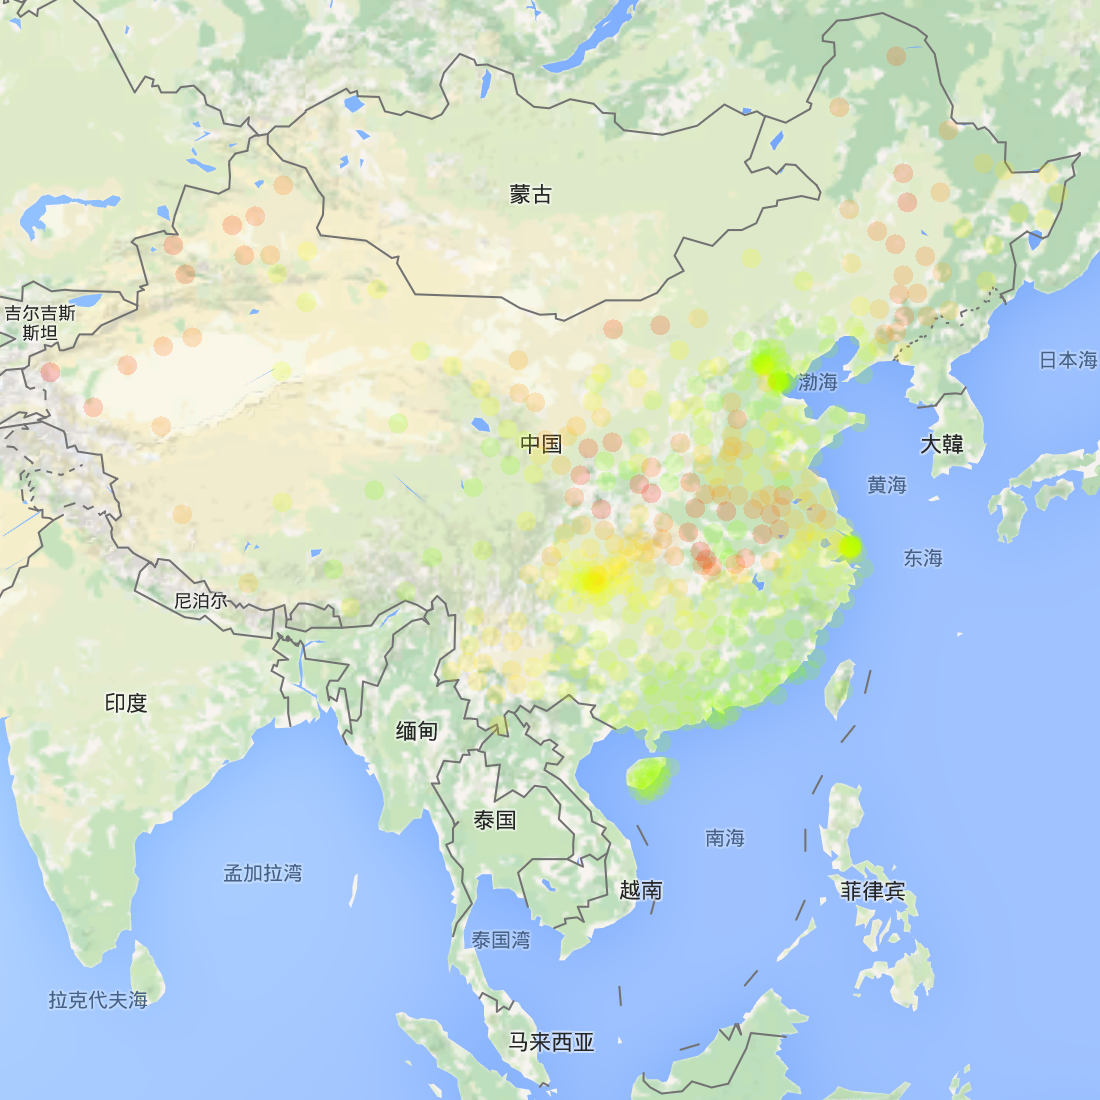
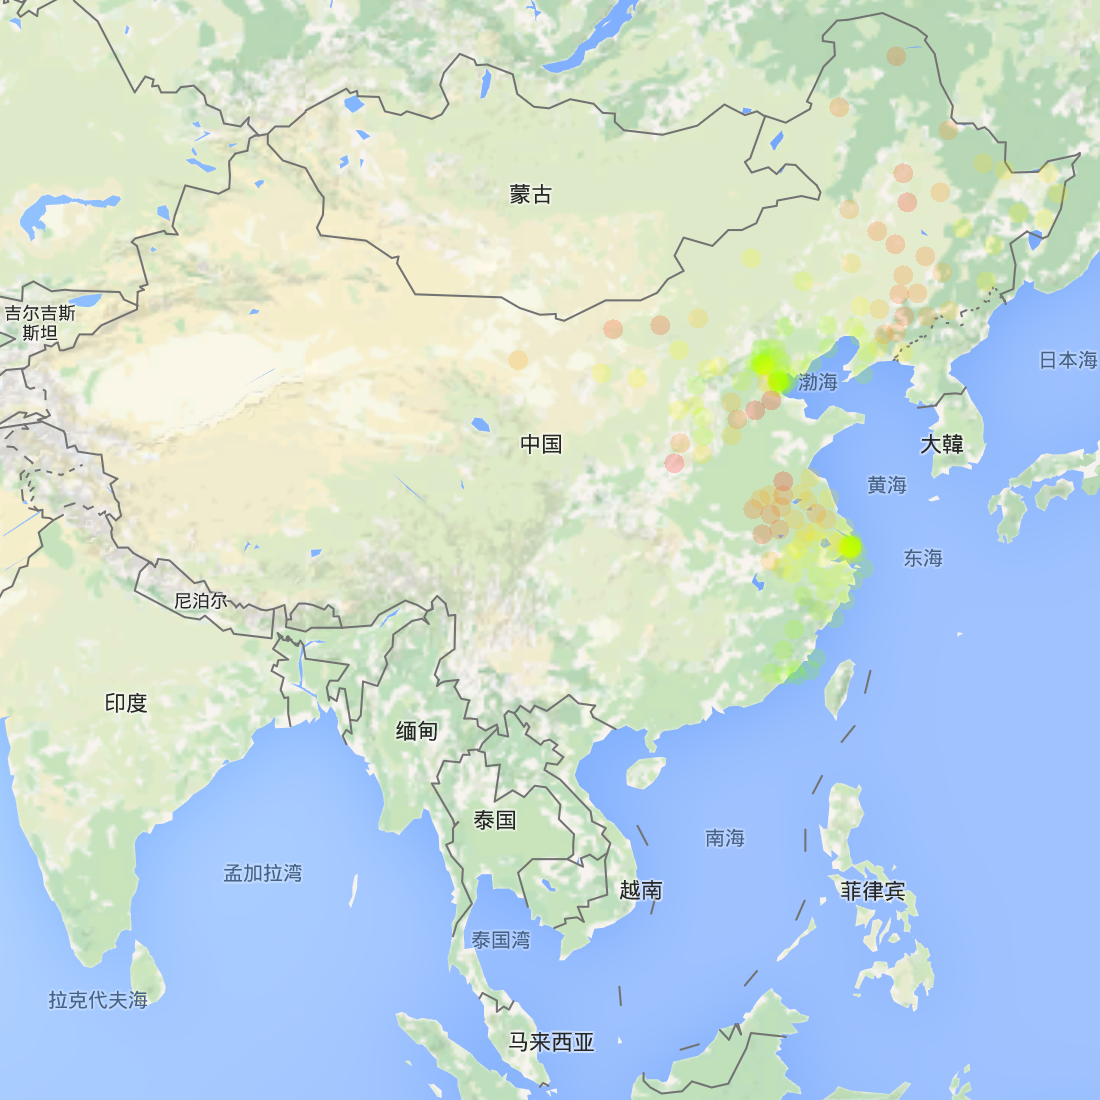
规范Color选择

diff --git a/src/main/java/org/pujun/heatmap/HeatMap.java b/src/main/java/org/pujun/heatmap/HeatMap.java
@@ -103,8 +103,10 @@ public class HeatMap {
         }else if(selectCorlor >=128 && selectCorlor <= 383){
             thisColor = new Color(255,minColor.getGreen()-(selectCorlor-128),0,50);
             return thisColor;
+        }else if(selectCorlor > 383 && selectCorlor <800){
+            return maxColor;
         }else{
-            return minColor;
+            return new Color(0, 0, 0, 0);//异常点白色
         }
     }
 
